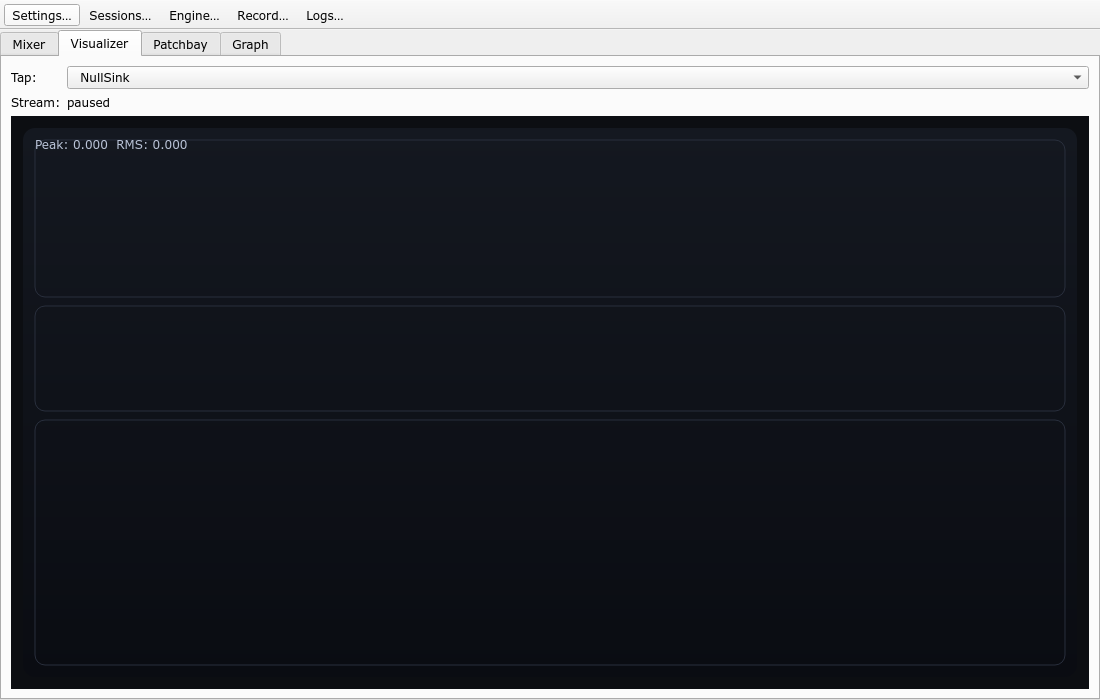
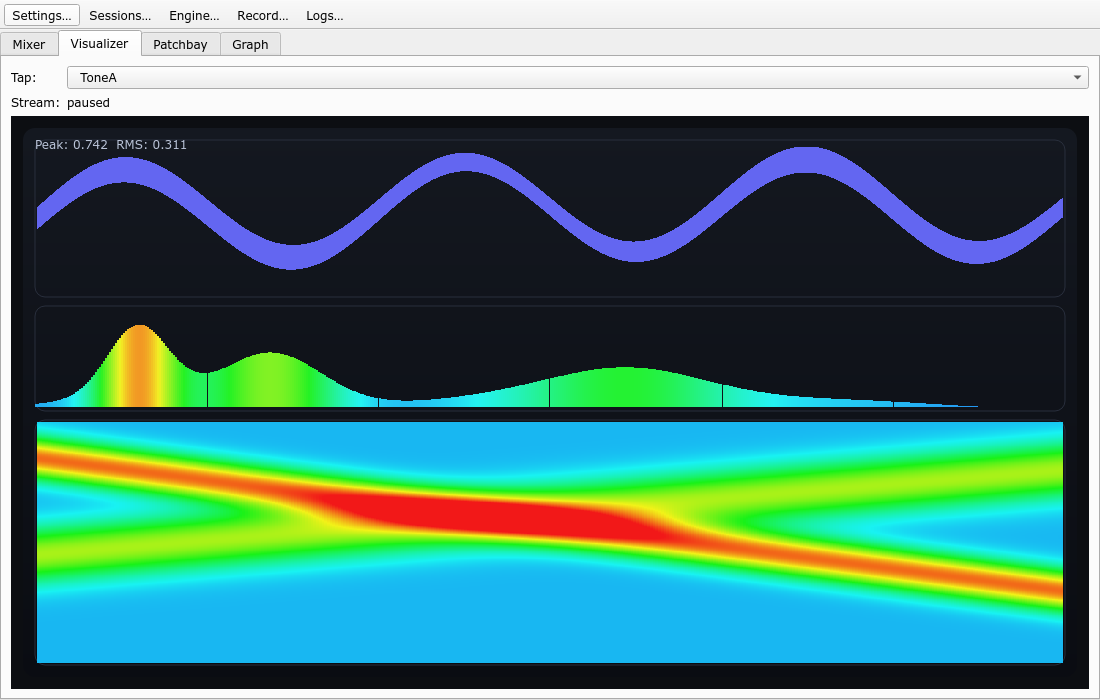
Fix Patchbay port labels + demo visualizer screenshots

diff --git a/screenshots/index.html b/screenshots/index.html
@@ -88,18 +88,18 @@
     <div class="wrap">
       <header>
         <h1>Headroom — Screenshots</h1>
-        <p>Auto-generated by <code>./scripts/publish_screenshots.sh</code>.</p>
+        <p>These images are checked into the repo under <code>screenshots/</code>.</p>
         <div class="meta">
-          <span>Generate: <code>./scripts/make_screenshots.sh</code></span>
-          <span>Upload: <code>wtf-upload screenshots/*.png</code></span>
+          <span>Regenerate: <code>./scripts/make_screenshots.sh</code></span>
+          <span>Upload one-link gallery: <code>./scripts/publish_screenshots.sh</code></span>
         </div>
       </header>
 
       <section>
         <h2>Mixer</h2>
         <div class="content">
-          <a href="https://tmp.uh-oh.wtf/2026/01/23/31055923-mixer.png" target="_blank" rel="noreferrer">
-            <img alt="Mixer tab screenshot" src="https://tmp.uh-oh.wtf/2026/01/23/31055923-mixer.png" />
+          <a href="mixer.png" target="_blank" rel="noreferrer">
+            <img alt="Mixer tab screenshot" src="mixer.png" />
           </a>
         </div>
       </section>
@@ -107,8 +107,8 @@
       <section>
         <h2>Visualizer</h2>
         <div class="content">
-          <a href="https://tmp.uh-oh.wtf/2026/01/23/36cdaf8f-visualizer.png" target="_blank" rel="noreferrer">
-            <img alt="Visualizer tab screenshot" src="https://tmp.uh-oh.wtf/2026/01/23/36cdaf8f-visualizer.png" />
+          <a href="visualizer.png" target="_blank" rel="noreferrer">
+            <img alt="Visualizer tab screenshot" src="visualizer.png" />
           </a>
         </div>
       </section>
@@ -116,8 +116,8 @@
       <section>
         <h2>Patchbay</h2>
         <div class="content">
-          <a href="https://tmp.uh-oh.wtf/2026/01/23/737902c6-patchbay.png" target="_blank" rel="noreferrer">
-            <img alt="Patchbay tab screenshot" src="https://tmp.uh-oh.wtf/2026/01/23/737902c6-patchbay.png" />
+          <a href="patchbay.png" target="_blank" rel="noreferrer">
+            <img alt="Patchbay tab screenshot" src="patchbay.png" />
           </a>
         </div>
       </section>
@@ -125,8 +125,8 @@
       <section>
         <h2>Graph</h2>
         <div class="content">
-          <a href="https://tmp.uh-oh.wtf/2026/01/23/e5cc5603-graph.png" target="_blank" rel="noreferrer">
-            <img alt="Graph tab screenshot" src="https://tmp.uh-oh.wtf/2026/01/23/e5cc5603-graph.png" />
+          <a href="graph.png" target="_blank" rel="noreferrer">
+            <img alt="Graph tab screenshot" src="graph.png" />
           </a>
         </div>
       </section>
@@ -134,8 +134,8 @@
       <section>
         <h2>Settings</h2>
         <div class="content">
-          <a href="https://tmp.uh-oh.wtf/2026/01/23/124d798c-settings.png" target="_blank" rel="noreferrer">
-            <img alt="Settings dialog screenshot" src="https://tmp.uh-oh.wtf/2026/01/23/124d798c-settings.png" />
+          <a href="settings.png" target="_blank" rel="noreferrer">
+            <img alt="Settings dialog screenshot" src="settings.png" />
           </a>
         </div>
       </section>
@@ -143,8 +143,8 @@
       <section>
         <h2>Parametric EQ</h2>
         <div class="content">
-          <a href="https://tmp.uh-oh.wtf/2026/01/23/19400752-eq.png" target="_blank" rel="noreferrer">
-            <img alt="Parametric EQ dialog screenshot" src="https://tmp.uh-oh.wtf/2026/01/23/19400752-eq.png" />
+          <a href="eq.png" target="_blank" rel="noreferrer">
+            <img alt="Parametric EQ dialog screenshot" src="eq.png" />
           </a>
         </div>
       </section>
@@ -152,17 +152,26 @@
       <section>
         <h2>Engine</h2>
         <div class="content">
-          <a href="https://tmp.uh-oh.wtf/2026/01/23/660874be-engine.png" target="_blank" rel="noreferrer">
-            <img alt="Engine dialog screenshot" src="https://tmp.uh-oh.wtf/2026/01/23/660874be-engine.png" />
+          <a href="engine.png" target="_blank" rel="noreferrer">
+            <img alt="Engine dialog screenshot" src="engine.png" />
           </a>
         </div>
       </section>
 
       <section>
-        <h2>Tray menu</h2>
+        <h2>Tray Menu</h2>
         <div class="content">
-          <a href="https://tmp.uh-oh.wtf/2026/01/23/195bdf14-tray-menu.png" target="_blank" rel="noreferrer">
-            <img alt="Tray menu screenshot" src="https://tmp.uh-oh.wtf/2026/01/23/195bdf14-tray-menu.png" />
+          <a href="tray-menu.png" target="_blank" rel="noreferrer">
+            <img alt="Tray menu screenshot" src="tray-menu.png" />
+          </a>
+        </div>
+      </section>
+
+      <section>
+        <h2>Reference</h2>
+        <div class="content">
+          <a href="max-headroom-reference.jpg" target="_blank" rel="noreferrer">
+            <img alt="Max Headroom reference image" src="max-headroom-reference.jpg" />
           </a>
         </div>
       </section>

diff --git a/src/ui/VisualizerWidget.cpp b/src/ui/VisualizerWidget.cpp
@@ -6,8 +6,13 @@
 #include <algorithm>
 #include <QPainter>
 #include <QTimer>
+#include <QtGlobal>
 
 #include <cmath>
+
+namespace {
+constexpr float kPi = 3.14159265358979323846f;
+} // namespace
 
 VisualizerWidget::VisualizerWidget(AudioTap* tap, QWidget* parent)
     : QWidget(parent)
@@ -83,8 +88,13 @@ void VisualizerWidget::paintEvent(QPaintEvent* /*event*/)
   }
 
   // Header (meters).
-  const float peak = m_tap->peak();
-  const float rms = m_tap->rms();
+  const bool demo = qEnvironmentVariableIsSet("HEADROOM_DEMO_VISUALIZER");
+  float peak = m_tap->peak();
+  float rms = m_tap->rms();
+  if (demo && peak <= 0.0001f && rms <= 0.0001f) {
+    peak = 0.742f;
+    rms = 0.311f;
+  }
   p.setPen(QColor(185, 195, 215));
   p.drawText(QRect(inner.left(), inner.top() - 4, inner.width(), 16),
              Qt::AlignLeft | Qt::AlignVCenter,
@@ -97,6 +107,20 @@ void VisualizerWidget::paintEvent(QPaintEvent* /*event*/)
   const uint32_t sr = m_tap->sampleRate();
   const int windowSamples = std::max(1, static_cast<int>(std::llround(m_waveformHistorySeconds * static_cast<double>(sr))));
   m_tap->waveformMinMax(columns, windowSamples, mins, maxs);
+  if (demo && (mins.isEmpty() || maxs.isEmpty())) {
+    mins.resize(columns);
+    maxs.resize(columns);
+    for (int x = 0; x < columns; ++x) {
+      const float t = static_cast<float>(x) / static_cast<float>(std::max(1, columns - 1));
+      const float phase = t * 2.0f * kPi;
+      const float carrier = std::sin(phase * 3.0f) * 0.65f;
+      const float mod = std::sin(phase * 0.35f) * 0.18f;
+      const float spread = 0.12f + 0.06f * (0.5f + 0.5f * std::sin(phase * 1.6f));
+      const float v = carrier + mod;
+      mins[x] = std::clamp(v - spread, -1.0f, 1.0f);
+      maxs[x] = std::clamp(v + spread, -1.0f, 1.0f);
+    }
+  }
 
   const float midY = waveformRect.center().y();
   const float amp = (waveformRect.height() * 0.45f);
@@ -113,7 +137,22 @@ void VisualizerWidget::paintEvent(QPaintEvent* /*event*/)
   p.setRenderHint(QPainter::Antialiasing, true);
 
   // Spectrum.
-  const auto spectrum = m_tap->spectrum();
+  QVector<float> spectrum = m_tap->spectrum();
+  if (demo) {
+    if (spectrum.isEmpty()) {
+      spectrum.resize(256);
+    }
+    const int bins = spectrum.size();
+    for (int i = 0; i < bins; ++i) {
+      const float x = static_cast<float>(i) / static_cast<float>(std::max(1, bins - 1));
+      // A couple of smooth peaks + a gentle noise floor.
+      const float p1 = std::exp(-0.5f * std::pow((x - 0.10f) / 0.03f, 2.0f));
+      const float p2 = std::exp(-0.5f * std::pow((x - 0.23f) / 0.05f, 2.0f));
+      const float p3 = std::exp(-0.5f * std::pow((x - 0.58f) / 0.08f, 2.0f));
+      const float floor = 0.07f * (0.5f + 0.5f * std::sin(x * 18.0f));
+      spectrum[i] = std::clamp(0.75f * p1 + 0.55f * p2 + 0.40f * p3 + floor, 0.0f, 1.0f);
+    }
+  }
   if (!spectrum.isEmpty()) {
     p.setPen(Qt::NoPen);
     const int bins = spectrum.size();
@@ -132,15 +171,28 @@ void VisualizerWidget::paintEvent(QPaintEvent* /*event*/)
   }
 
   // Spectrogram.
-  const auto spec = m_tap->spectrogram();
+  auto spec = m_tap->spectrogram();
   if (spec.columns > 0 && spec.bins > 0 && spec.pixels.size() == spec.columns * spec.bins) {
     QImage img(spec.columns, spec.bins, QImage::Format_ARGB32);
-    for (int x = 0; x < spec.columns; ++x) {
-      const int srcCol = (spec.writeColumn + x) % spec.columns; // oldest -> newest
-      for (int y = 0; y < spec.bins; ++y) {
-        const int srcRow = spec.bins - 1 - y; // low at bottom
-        const int srcIndex = srcCol * spec.bins + srcRow;
-        img.setPixel(x, y, spec.pixels[srcIndex]);
+    if (demo) {
+      for (int x = 0; x < spec.columns; ++x) {
+        const float xf = static_cast<float>(x) / static_cast<float>(std::max(1, spec.columns - 1));
+        for (int y = 0; y < spec.bins; ++y) {
+          const float yf = static_cast<float>(y) / static_cast<float>(std::max(1, spec.bins - 1));
+          const float ridge = std::exp(-0.5f * std::pow((yf - (0.15f + 0.55f * xf)) / 0.06f, 2.0f));
+          const float ridge2 = std::exp(-0.5f * std::pow((yf - (0.55f - 0.35f * xf)) / 0.08f, 2.0f));
+          const float v = std::clamp(0.12f + 0.78f * ridge + 0.52f * ridge2, 0.0f, 1.0f);
+          img.setPixel(x, y, QColor::fromHsvF(0.62 - 0.62 * v, 0.9, 0.95).rgba());
+        }
+      }
+    } else {
+      for (int x = 0; x < spec.columns; ++x) {
+        const int srcCol = (spec.writeColumn + x) % spec.columns; // oldest -> newest
+        for (int y = 0; y < spec.bins; ++y) {
+          const int srcRow = spec.bins - 1 - y; // low at bottom
+          const int srcIndex = srcCol * spec.bins + srcRow;
+          img.setPixel(x, y, spec.pixels[srcIndex]);
+        }
       }
     }
 

diff --git a/src/ui/PatchbayPage.cpp b/src/ui/PatchbayPage.cpp
@@ -22,6 +22,7 @@
 #include <QGraphicsScene>
 #include <QGraphicsTextItem>
 #include <QGraphicsView>
+#include <QFontMetrics>
 #include <QInputDialog>
 #include <QLabel>
 #include <QLineEdit>
@@ -1352,6 +1353,7 @@ void PatchbayPage::rebuild()
   const qreal pad = 10;
   const qreal gapX = 26;
   const qreal gapY = 26;
+  const qreal labelMaxW = std::max<qreal>(60.0, (nodeW - 2 * pad - 2 * 8 - 16) / 2.0);
 
   int col = 0;
   int row = 0;
@@ -1508,9 +1510,20 @@ void PatchbayPage::rebuild()
         ellipse->setAcceptedMouseButtons(Qt::NoButton);
       }
 
-      const QString label = pinfo.audioChannel.isEmpty() ? displayBase : QStringLiteral("%1 (%2)").arg(displayBase, pinfo.audioChannel);
-      auto* text = new QGraphicsTextItem(label, root);
+      QString label = displayBase;
+      if (!pinfo.audioChannel.isEmpty()) {
+        const QString ch = pinfo.audioChannel.trimmed();
+        const bool redundant = ch.compare(displayBase, Qt::CaseInsensitive) == 0 ||
+            (!basePw.isEmpty() && ch.compare(basePw, Qt::CaseInsensitive) == 0) ||
+            (!pinfo.alias.isEmpty() && ch.compare(pinfo.alias, Qt::CaseInsensitive) == 0);
+        if (!ch.isEmpty() && !redundant) {
+          label = QStringLiteral("%1 (%2)").arg(displayBase, ch);
+        }
+      }
+
+      auto* text = new QGraphicsTextItem(root);
       text->setDefaultTextColor(QColor(170, 180, 200));
+      text->setToolTip(ellipse->toolTip());
       text->setData(kDataPortId, QVariant::fromValue(static_cast<quint32>(pinfo.id)));
       text->setData(kDataNodeId, QVariant::fromValue(static_cast<quint32>(n.id)));
       text->setData(kDataPortDir, isInput ? 1 : 0);
@@ -1518,6 +1531,8 @@ void PatchbayPage::rebuild()
       text->setData(kDataNodeName, n.name);
       text->setData(kDataPortName, pinfo.name);
       text->setData(kDataPortLocked, locked);
+      const QFontMetrics fm(text->font());
+      text->setPlainText(fm.elidedText(label, Qt::ElideRight, static_cast<int>(labelMaxW)));
       const qreal tx = isInput ? (center.x() + 8) : (center.x() - 8 - text->boundingRect().width());
       text->setPos(tx, py + 1);
       text->setZValue(4);

diff --git a/src/ui/VisualizerPage.cpp b/src/ui/VisualizerPage.cpp
@@ -261,15 +261,39 @@ void VisualizerPage::repopulateSources()
 
   // If we were on Auto and now have stream targets, pick the first available target.
   if (!m_userHasChosenTarget && m_tap && !m_tap->captureSink() && m_tap->targetObject().isEmpty() && m_sources->count() > 1) {
+    int bestIndex = -1;
+    int bestScore = -1;
     for (int i = 0; i < m_sources->count(); ++i) {
       const auto specOpt = tapSpecFromVariant(m_sources->itemData(i));
       if (!specOpt.has_value()) {
         continue;
       }
-      if (!specOpt->targetObject.isEmpty()) {
-        m_sources->setCurrentIndex(i);
+      if (specOpt->targetObject.isEmpty()) {
+        continue;
+      }
+
+      // Heuristics: prefer port-object serials (numeric ids) and prefer non-sink capture.
+      int score = 0;
+      bool isNumber = false;
+      specOpt->targetObject.toUInt(&isNumber);
+      if (isNumber) {
+        score += 100;
+      }
+      if (!specOpt->captureSink) {
+        score += 10;
+      }
+
+      if (score > bestScore) {
+        bestScore = score;
+        bestIndex = i;
+      }
+    }
+
+    if (bestIndex >= 0) {
+      const auto specOpt = tapSpecFromVariant(m_sources->itemData(bestIndex));
+      if (specOpt.has_value()) {
+        m_sources->setCurrentIndex(bestIndex);
         m_tap->setTarget(specOpt->captureSink, specOpt->targetObject);
-        break;
       }
     }
   }

diff --git a/plan.md b/plan.md
@@ -34,6 +34,7 @@
 - Generate screenshots (uses a temporary PipeWire instance + demo tone streams):
   - `./scripts/make_screenshots.sh`
   - Output: `screenshots/*.png`
+  - Note: this container’s private PipeWire graph often won’t deliver real capture data (no session manager), so the screenshot script enables `HEADROOM_DEMO_VISUALIZER=1` to ensure the waveform/spectrum/spectrogram panels aren’t blank.
 
 - Upload screenshots:
   - `wtf-upload screenshots/*.png`
@@ -41,7 +42,7 @@
 
 - One-link gallery page (recommended):
   - `./scripts/publish_screenshots.sh`
-  - Regenerates `screenshots/*.png`, uploads them, rewrites `screenshots/index.html` with the new URLs, then uploads the HTML.
+  - Regenerates `screenshots/*.png`, uploads them, generates a temporary `index.html` pointing at the uploaded images, then uploads that HTML (does not modify the repo’s `screenshots/index.html`).
 
 ## Validation Notes (dev container)
 
